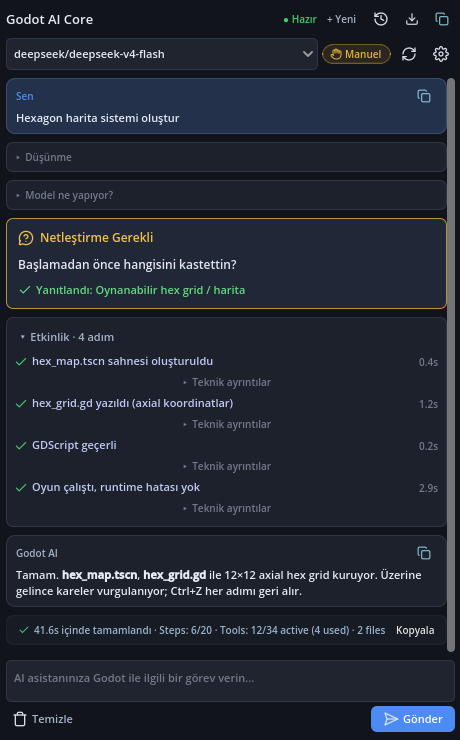
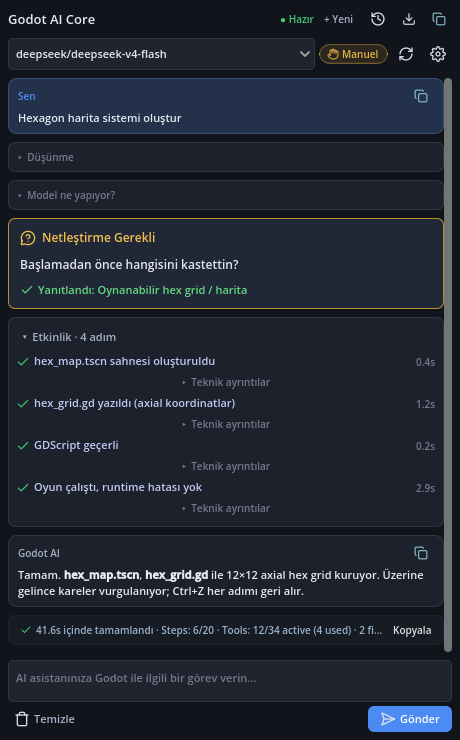
fix(ui): keep long texts from pushing the dock wider than its width
Found in the editor: a long clarification option ("2. Map pipeline:
province raster compiler + ...") made the card demand ~1000 px minimum
width, so the whole stream overflowed a narrow dock and the right side
was cut off (Godot limits how wide a side dock can be dragged). Measured
with long text: clarification 975 px, task checklist header 524 px,
telemetry header 624 px; everything else stays under ~200 px.

- clarification options: vertical list, full width, word wrap (in the
  old HFlowContainer wrapping buttons collapsed to their narrowest size,
  seen only in a real layout via readme_shots)
- welcome suggestions: word wrap
- checklist and telemetry headers: single line, ellipsis, full text in
  the tooltip

Test: UIComponentsTests 16 builds each component with long text and
requires <= 320 px minimum width, the full option text kept, options in
a full-width vertical box and the telemetry tooltip; red without the fix
(clarification=975, telemetry=624, checklist=524). README screenshots
regenerated (clarification cards now list options vertically).

diff --git a/CHANGELOG.md b/CHANGELOG.md
@@ -46,6 +46,7 @@ Sürümleme: [Semantic Versioning](https://semver.org/lang/tr/).
 * Sohbet export'unda mesaj alanı boş (`null`) olan bir tool sonucu, Markdown'daki tool bölümünü yarıda kesmiyor.
 * Türkçe arayüzde kalan İngilizce metinler çevrildi: onay / netleştirme / plan / hata kartları, değişiklik kartı, kuyruk paneli, telemetri başlığı, etkinlik grubu, görev listesi, History paneli, ayar ipuçları ve üst çubuk. İngilizce arayüz aynı kaldı; yalnızca daha önce İngilizce modda da Türkçe görünen karşılama kartı, ek görseli, ipuçları ve onay diyaloğu artık İngilizce. "Changes (1 files)" gibi tekil/çoğul hataları düzeldi. README görselleri güncellendi.
 * Kuyruk panelindeki satır numarası ve iptal butonu tema renklerini kullanıyor.
+* Dar dock'ta arayüz sağdan taşmıyor: uzun netleştirme seçenekleri ve hızlı başlangıç önerileri satır kaydırıyor (seçenekler artık alt alta, tam genişlikte), görev listesi ve telemetri başlıkları "…" ile kısalıyor ve tam metin ipucunda görünüyor.
 * Ayarlardan dil değiştirilince karşılama kartı da yeni dile geçiyor; hızlı başlangıç önerileri artık çevriliyor (İngilizce arayüzde Türkçe kalıyordu).
 
 ### Eklenenler
